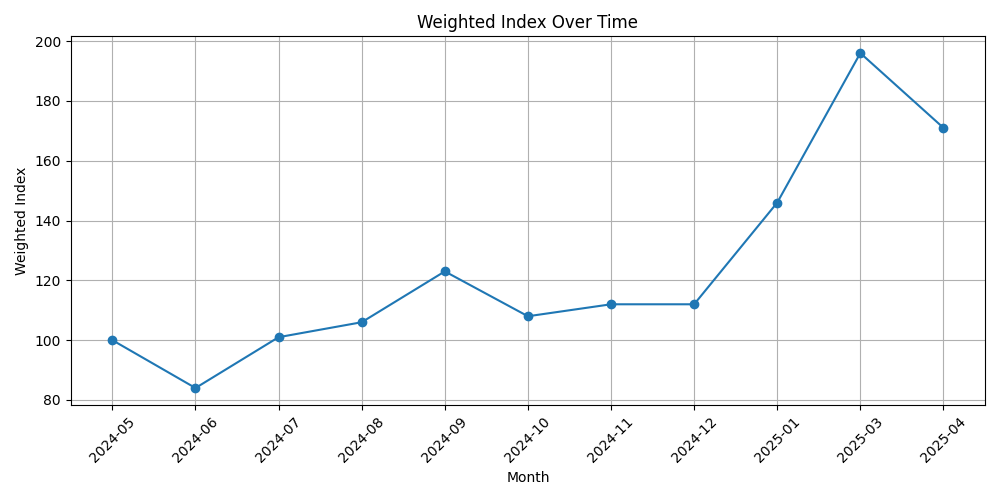
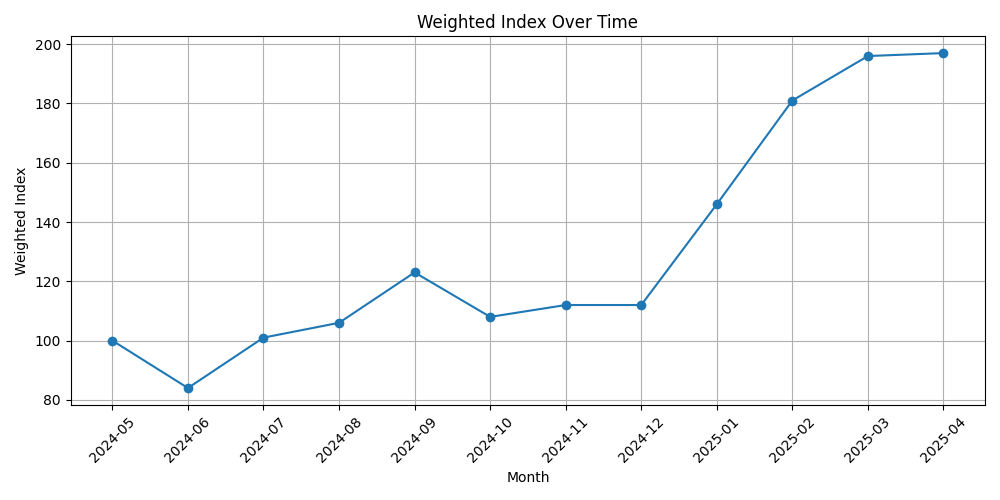
fixed missing 2025-02

diff --git a/index/create_index.py b/index/create_index.py
@@ -1,6 +1,7 @@
 import pandas as pd
 from datetime import datetime, timedelta
 import matplotlib.pyplot as plt
+from dateutil.relativedelta import relativedelta
 
 
 # 1. Read create_index_weights.csv and plot weights as a pie chart
@@ -51,7 +52,7 @@ combined_data.rename(columns={'weighted_index': 'Weighted Index'}, inplace=True)
 # Filter to last 12 months and baseline month
 current_date = datetime.now()
 previous_month = (current_date - timedelta(days=current_date.day)).replace(day=1)
-months_to_include = [baseline_date] + [(previous_month - timedelta(days=30 * i)).strftime('%Y-%m') for i in range(12)]
+months_to_include = [baseline_date] + [(previous_month - relativedelta(months=i)).strftime('%Y-%m') for i in range(12)]
 filtered_data = combined_data[combined_data['month'].isin(months_to_include)]
 # Transpose the DataFrame and save to a csv file
 filtered_data = filtered_data.set_index('month').T
